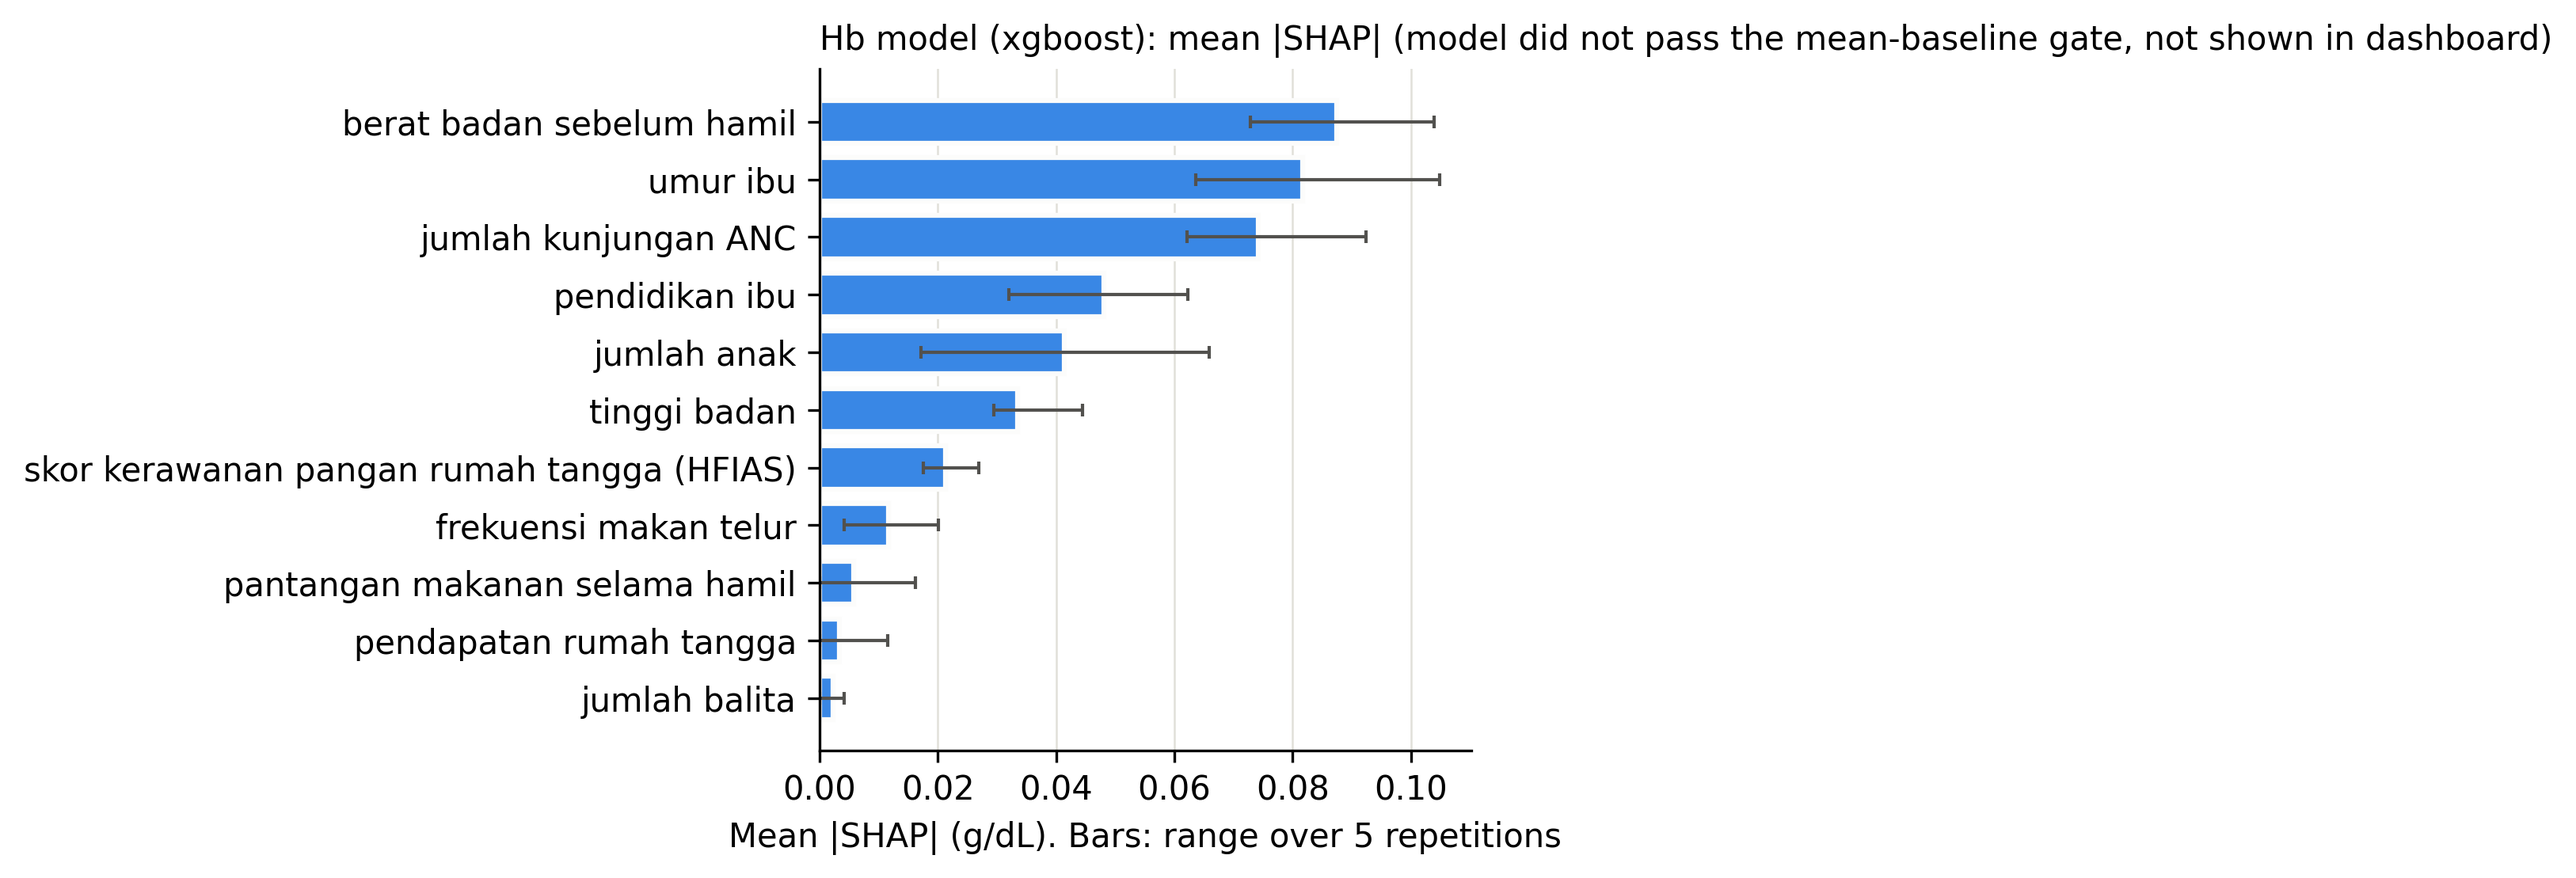
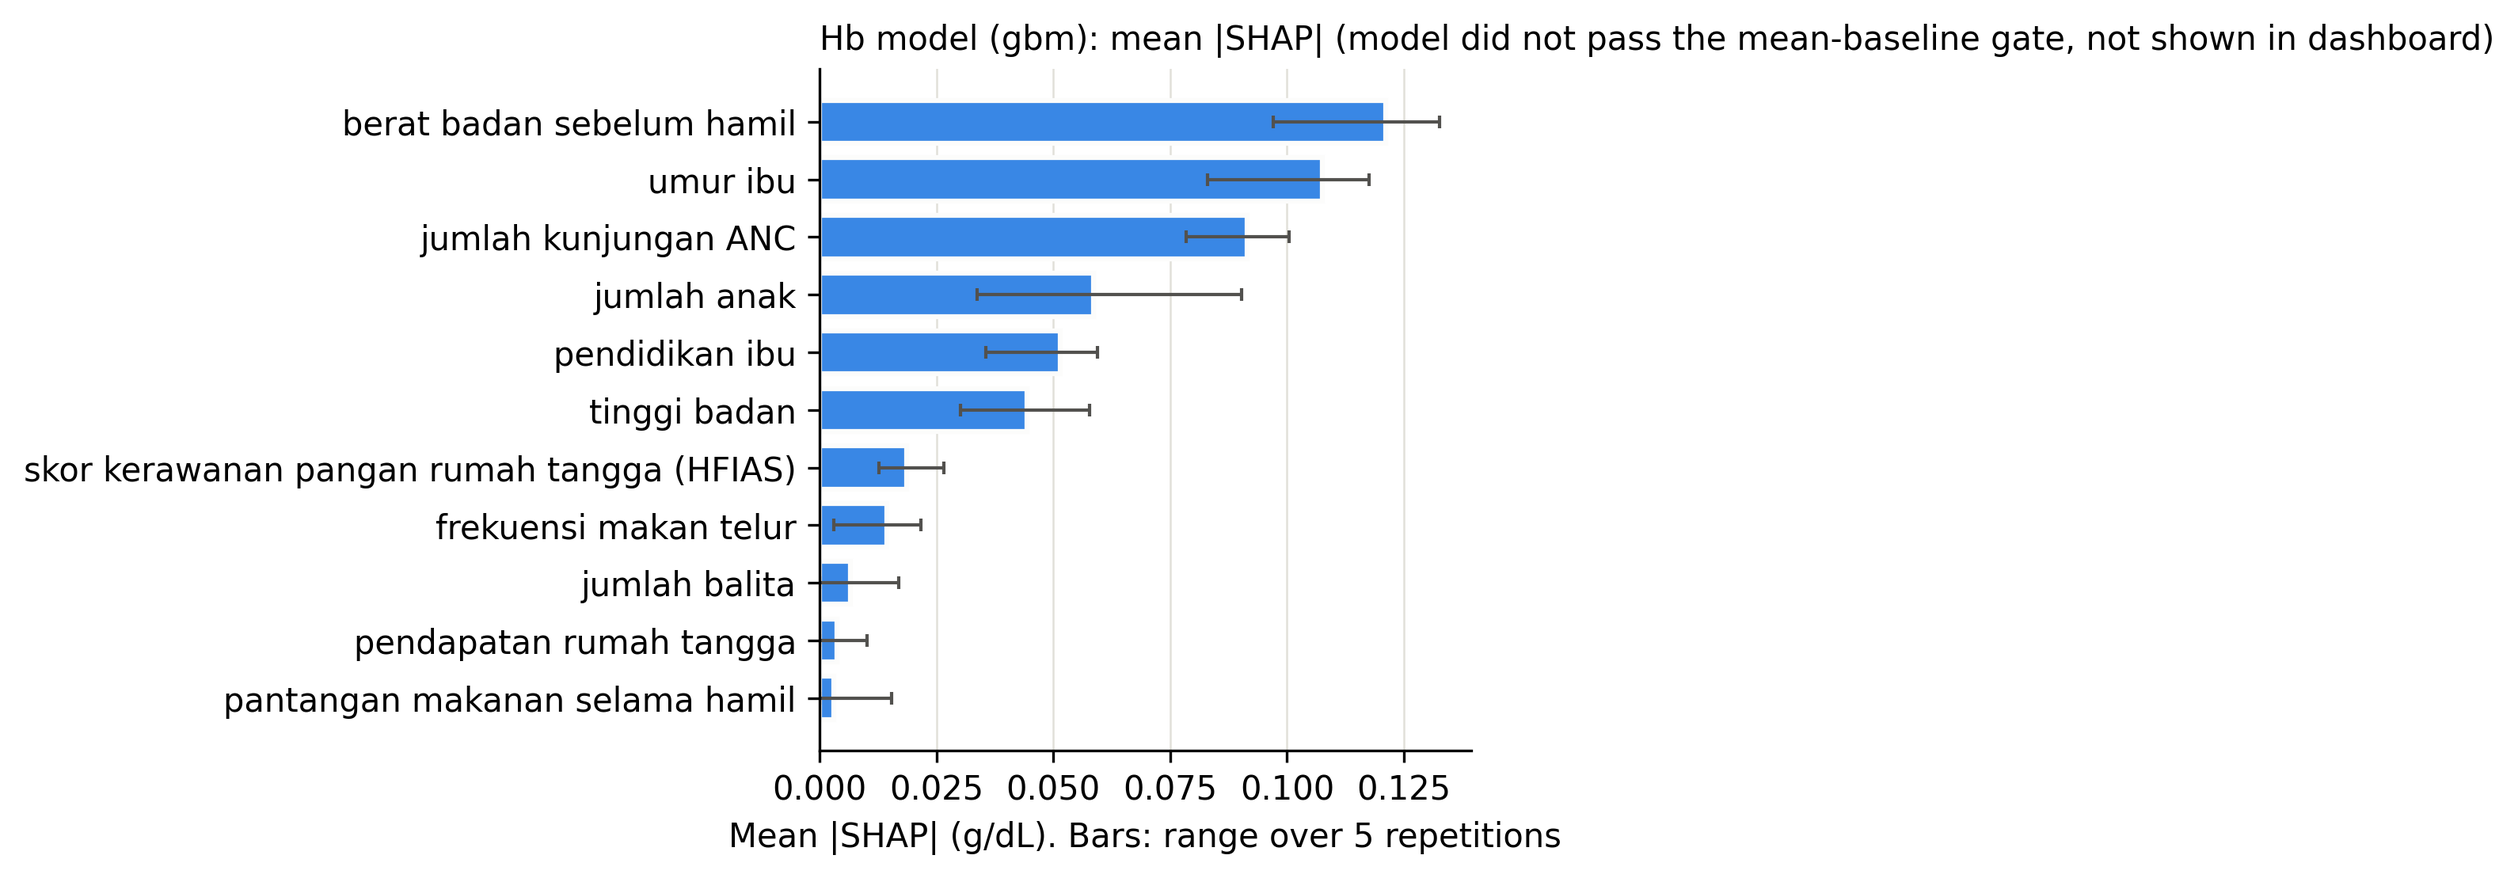
Apply selection rule v2: GBM for Hb, XGBoost for CED; record the deviation

diff --git a/CHANGELOG.md b/CHANGELOG.md
@@ -119,3 +119,15 @@ Reason: the title is now "Evaluating XGBoost with SHAP ...". The supervisor aske
 - **Selection (m10, artifacts/model_selection.json)**: Hb: provisional winner GBM (MAE 0.993), equivalence group XGBoost, GBM, LightGBM, CatBoost, so XGBoost is selected by step 4. CED: XGBoost has the best eligible AUC-ROC (0.773) and is selected. The dashboard keeps XGBoost for both targets, so 07 needs no rerun for a winner.
 - **Hb explanation gate (m11)**: XGBoost MAE reduction versus mean-only 0.002 g/dL (95 percent CI -0.022 to 0.026), outcome fail, verdict not_supported, identical to S1. The Hb explanation stays hidden and Hb stays indicative.
 - **Calibration (10)**: recomputed for the selected CED model (XGBoost) with the explain.yaml rule. Brier difference uncalibrated minus Platt -0.0016 (CI -0.0036 to 0.0004), so the dashboard keeps the uncalibrated probability, unchanged.
+
+## 2026-10-28 (DEVIATION: selection rule version 2, set after the results were known)
+
+- **Researcher instruction**: XGBoost must not be the reference. If another boosting model performs better it goes to the dashboard. Baselines (and Decision Tree, Random Forest) never do.
+- **Change**: config/model_selection.yaml version 2, locked 2026-10-28 in commit 4ea49bd. Only step 4 changed: choice best_point_estimate, preferred null. The eligible boosting model with the best point estimate (MAE for Hb, AUC-ROC for CED) is selected. Eligibility, candidates, metrics, bootstrap seeds, additivity tolerance and the Hb gate are unchanged. Version 1 (commit 0cc4098) is still applied side by side in table m10 (column selected_by_version1_rule).
+- **This is post hoc**: every comparison result (m01 to m11) was known when version 2 was written, and it was known that version 2 would select GBM for Hb. The selection is therefore data-driven and its performance optimistic. It is reported as such.
+- **Outcome**: Hb: GBM (MAE 0.993 versus XGBoost 0.998, difference 0.006 g/dL, 95 percent paired CI containing 0, so not statistically established; version 1 selected XGBoost). CED: XGBoost (AUC-ROC 0.773, best eligible; same as version 1).
+- **Hb gate for GBM (m11)**: MAE reduction versus mean-only 0.008 g/dL (95 percent CI -0.020 to 0.035), fail, not_supported. The Hb output stays indicative without explanation. GBM interval coverage among anemic women 0.70 (x16), so hb_show_range stays false.
+- **Final models (09)**: Hb GBM tuned on all 396 records with the same procedure (inner 3-fold, 30 trials), same seven dashboard features, SHAP additivity 1e-14. CED unchanged. 10 and 11 rerun for the selected models; the CED calibration decision is unchanged (uncalibrated).
+- **07** is not run for GBM (researcher decision of 2026-10-27), recorded as a limitation: the sensitivity analyses cover XGBoost and the baselines only.
+- Hypotheses P1, P2, S1 and S2 and their verdicts (d01, d02) are unchanged: they concern XGBoost.
+- 297 tests pass. The dashboard loads GBM for Hb and XGBoost for CED from artifacts/final_models.json.
